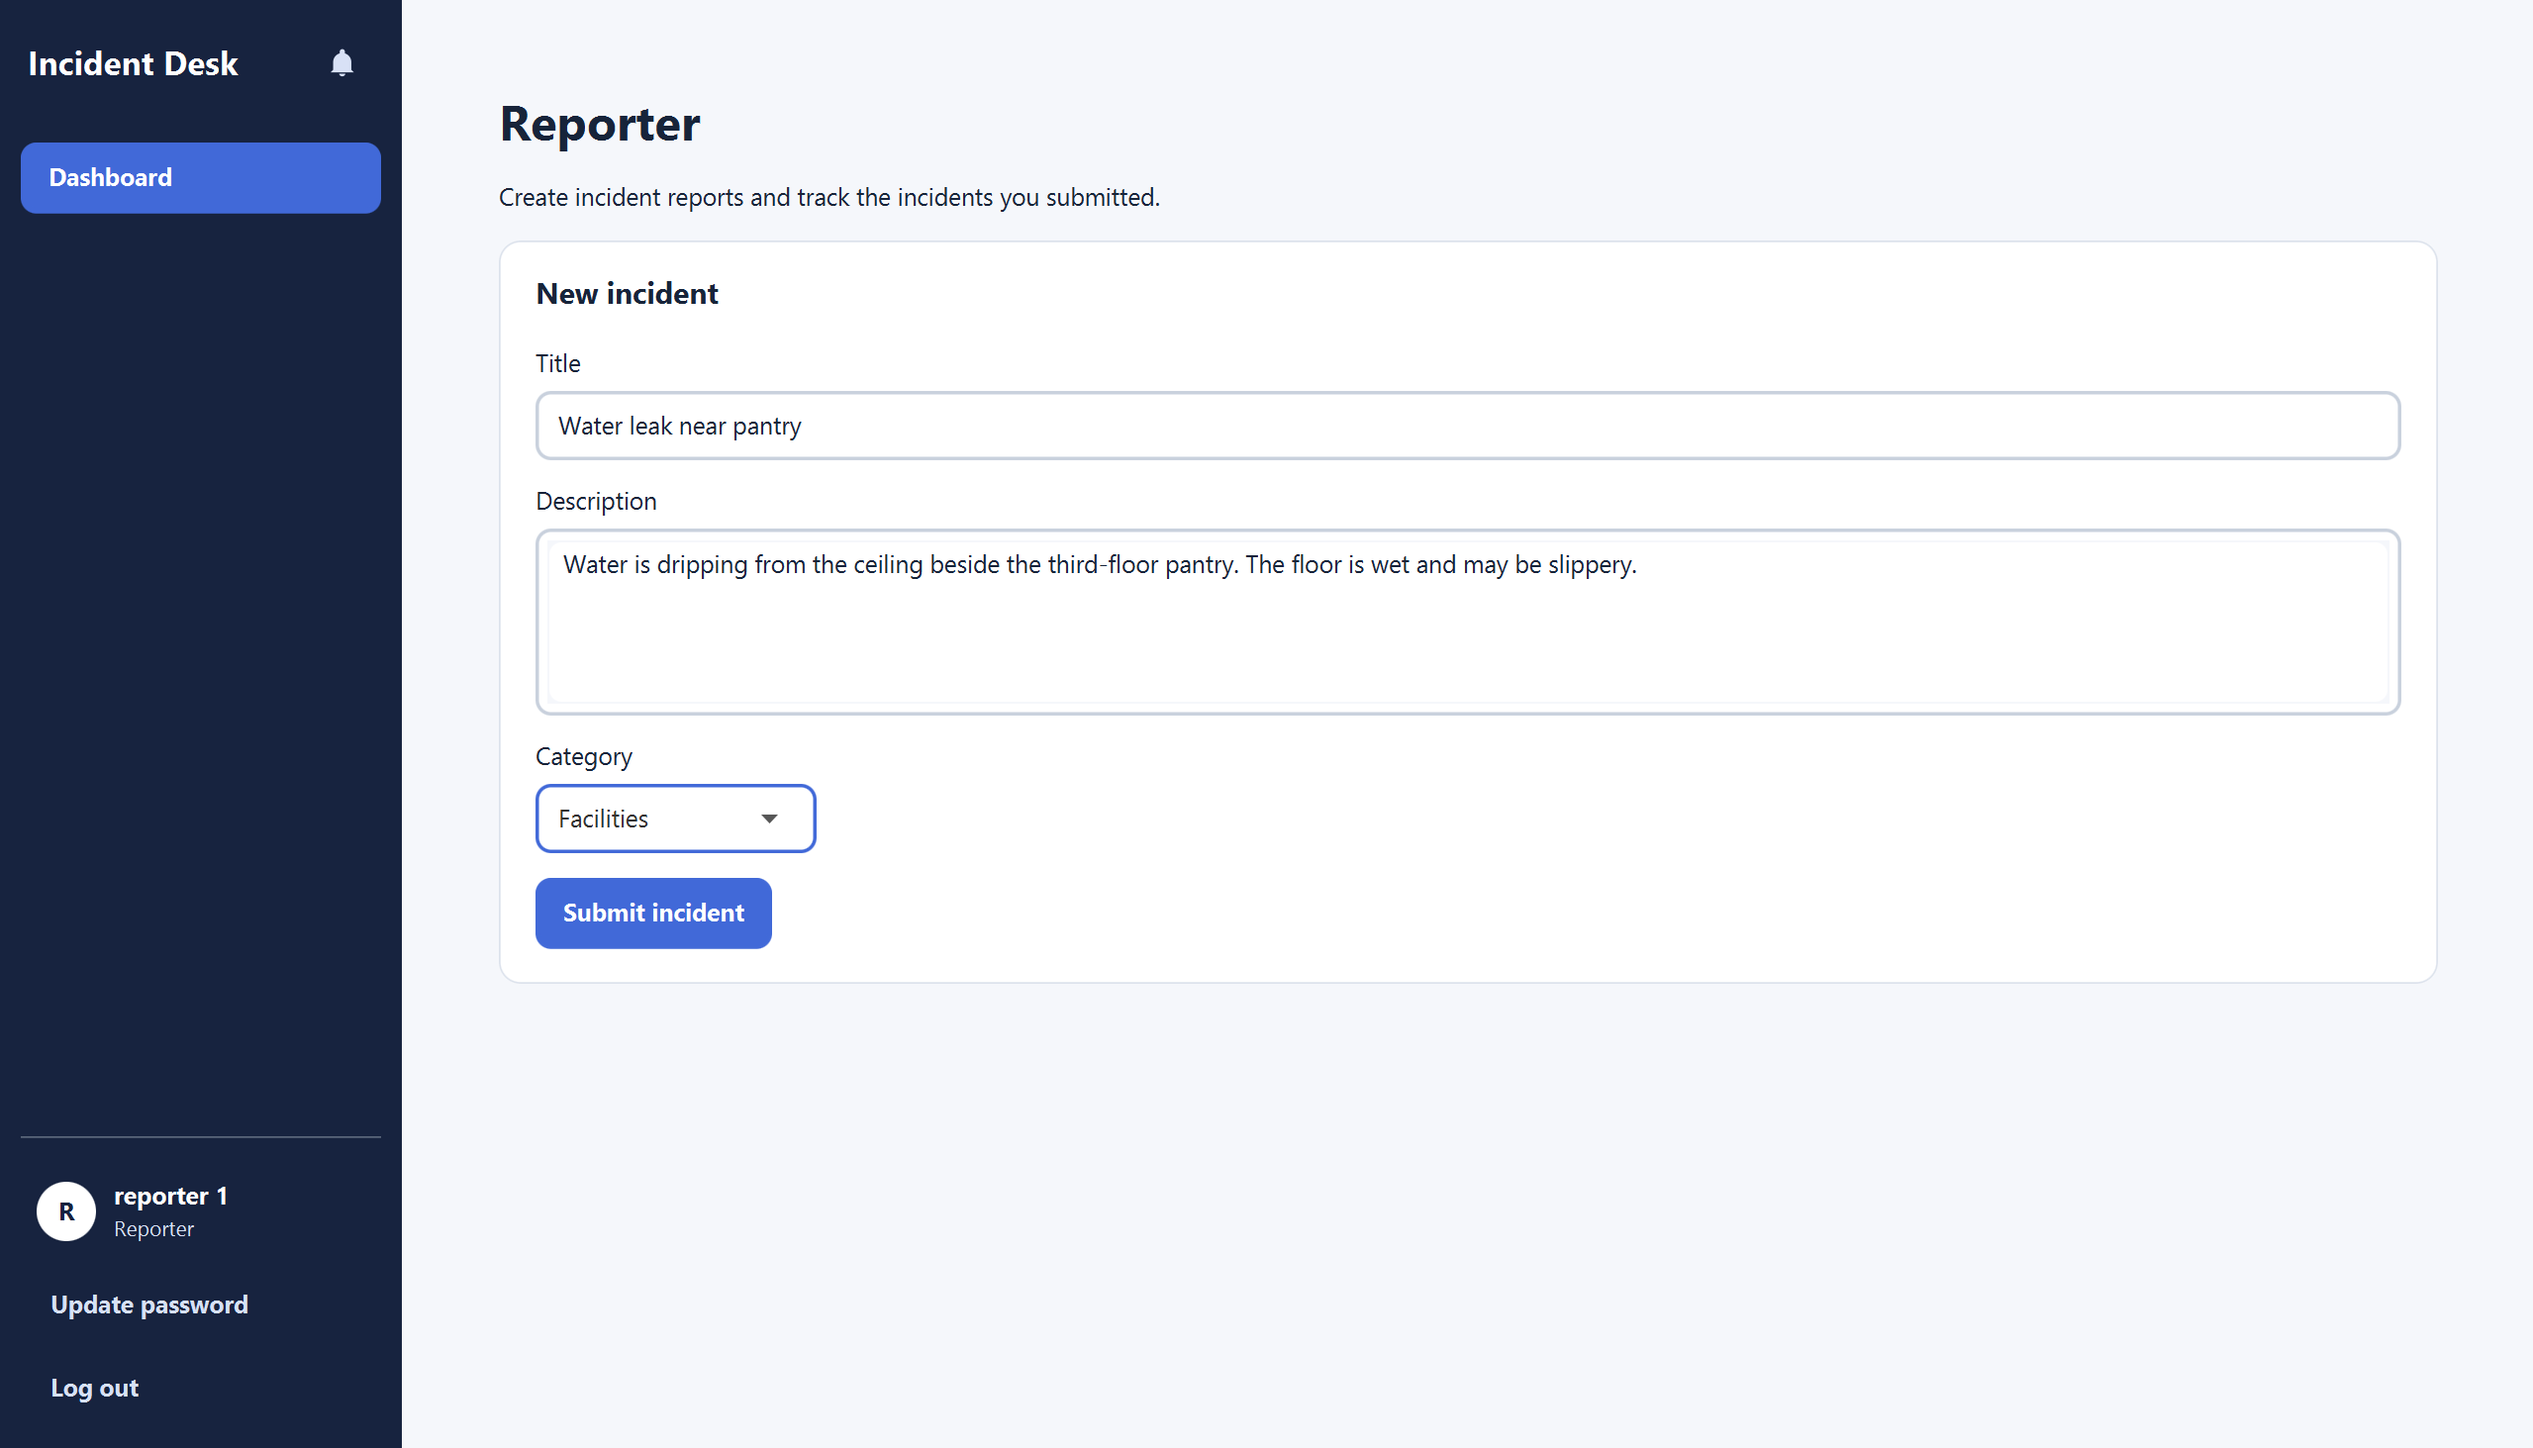
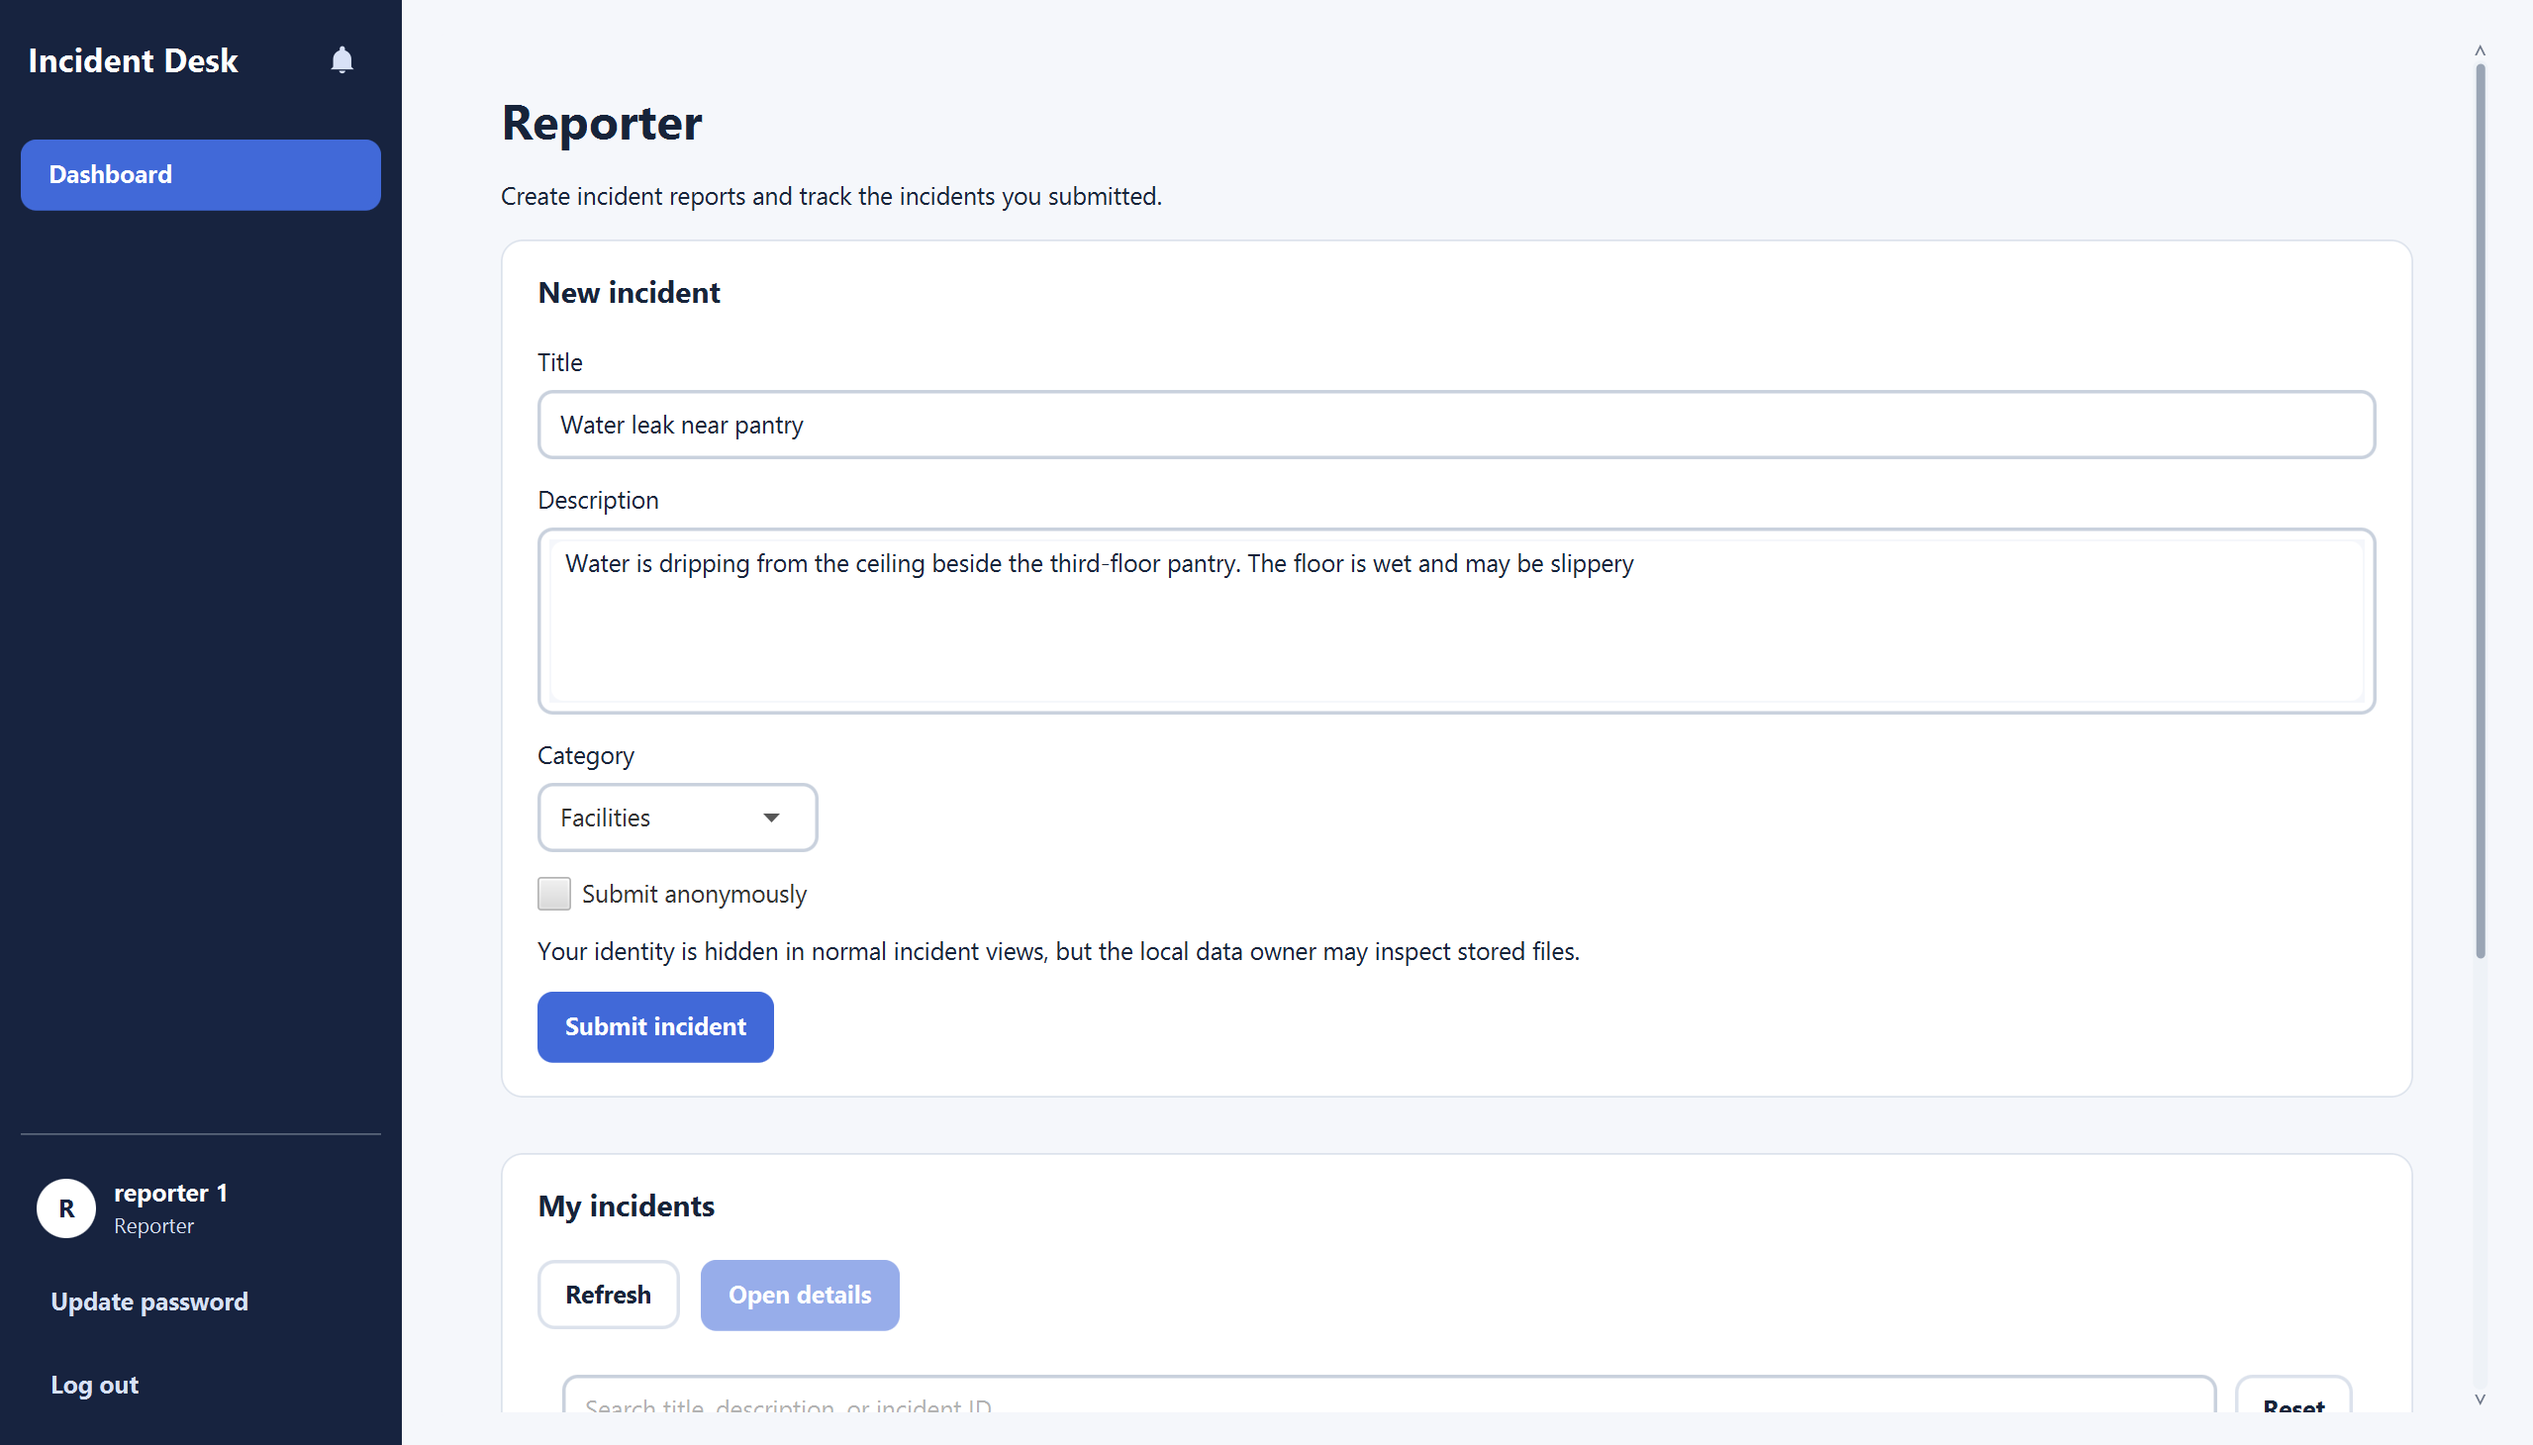
docs: refresh Reporter submission screenshot

diff --git a/docs/UserGuide.md b/docs/UserGuide.md
@@ -95,7 +95,7 @@ Anonymous reports remain visible in **My incidents**. Responders and Administrat
 
 For example, enter **Title:** `Water leak near pantry`, **Description:** `Water is dripping from the ceiling beside the third-floor pantry. The floor is wet and may be slippery.`, and **Category:** Facilities. An Administrator and a Responder with Facilities access can then manage this incident.
 
-![Example of the title, description, and category fields; the current form also has a Submit anonymously checkbox](images/reporter-submission.png)
+![Reporter dashboard with a completed Facilities report form, the optional Submit anonymously checkbox, and the My incidents section](images/reporter-submission.png)
 
 All three fields are required. If one is empty, the form highlights it and does not submit the incident. If saving fails, the app reports that the incident was not saved; your entries remain in the form so you can try again.
 
